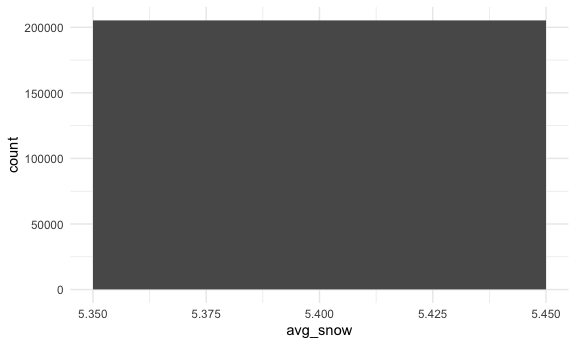
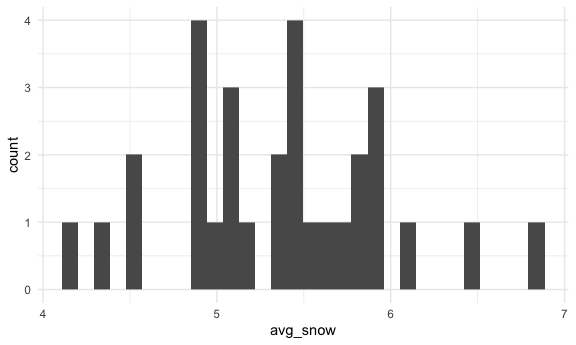
clean and merge Problem 2 datasets

diff --git a/p8105_hw3_cc5423.md b/p8105_hw3_cc5423.md
@@ -131,7 +131,8 @@ than 100 separately by year:
 ``` r
 ny_noaa_df |> 
   filter(0 < snow & snow < 100) |> 
-  mutate(avg_snow = mean(snow, na.rm = TRUE)) |> 
+  group_by(year) |> 
+  summarize(avg_snow = mean(snow, na.rm = TRUE)) |> 
   ggplot(aes(x = avg_snow)) +
   geom_histogram()
 ```
@@ -139,3 +140,54 @@ ny_noaa_df |>
     ## `stat_bin()` using `bins = 30`. Pick better value `binwidth`.
 
 <img src="p8105_hw3_cc5423_files/figure-gfm/unnamed-chunk-7-1.png" alt="" width="90%" />
+
+# Problem 2
+
+Read in datasets:
+
+``` r
+demo_df =
+  read_csv("data/nhanes_covar.csv", skip = 4, na = c("","NA",".")) |> 
+  janitor::clean_names() |> 
+  mutate(sex = recode(sex, `1` = "male", `2` = "female"),
+         education = as.factor(recode(education, `1` = "less than hs", `2` = "hs equivalent", `3` = "more than hs"))) |> 
+  filter(age > 21) |> 
+  drop_na()
+```
+
+    ## Rows: 250 Columns: 5
+    ## ── Column specification ────────────────────────────────────────────────────────
+    ## Delimiter: ","
+    ## dbl (5): SEQN, sex, age, BMI, education
+    ## 
+    ## ℹ Use `spec()` to retrieve the full column specification for this data.
+    ## ℹ Specify the column types or set `show_col_types = FALSE` to quiet this message.
+
+``` r
+accel_df =
+  read_csv("data/nhanes_accel.csv", na = c("","NA",".")) |> 
+  janitor::clean_names()
+```
+
+    ## Rows: 250 Columns: 1441
+    ## ── Column specification ────────────────────────────────────────────────────────
+    ## Delimiter: ","
+    ## dbl (1441): SEQN, min1, min2, min3, min4, min5, min6, min7, min8, min9, min1...
+    ## 
+    ## ℹ Use `spec()` to retrieve the full column specification for this data.
+    ## ℹ Specify the column types or set `show_col_types = FALSE` to quiet this message.
+
+``` r
+final_accel_df = 
+  left_join(demo_df, accel_df, by = "seqn")
+```
+
+- include all originally observed variables
+- exclude participants less than 21 years of age
+- exclude those with missing demographic data
+- encode data with reasonable variable classes: sex is now male and
+  female, education is a factor variable with less than hs, hs
+  equivalent, and more than hs as different categories
+
+Producing a table for the number of men and women in each education
+category:
